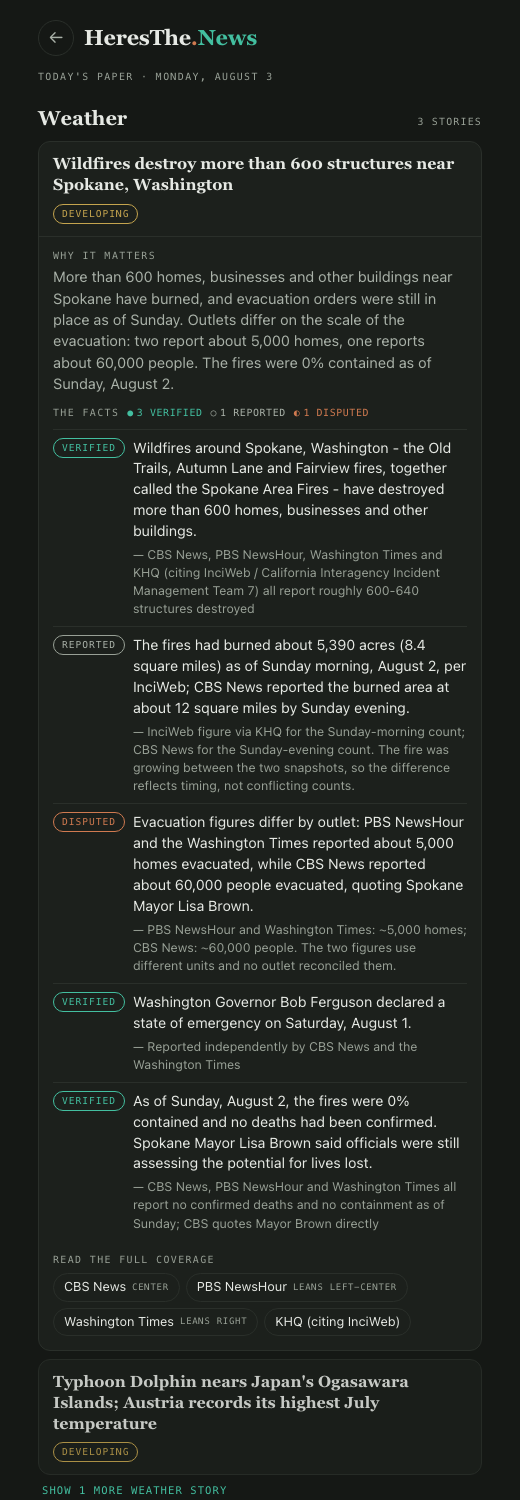
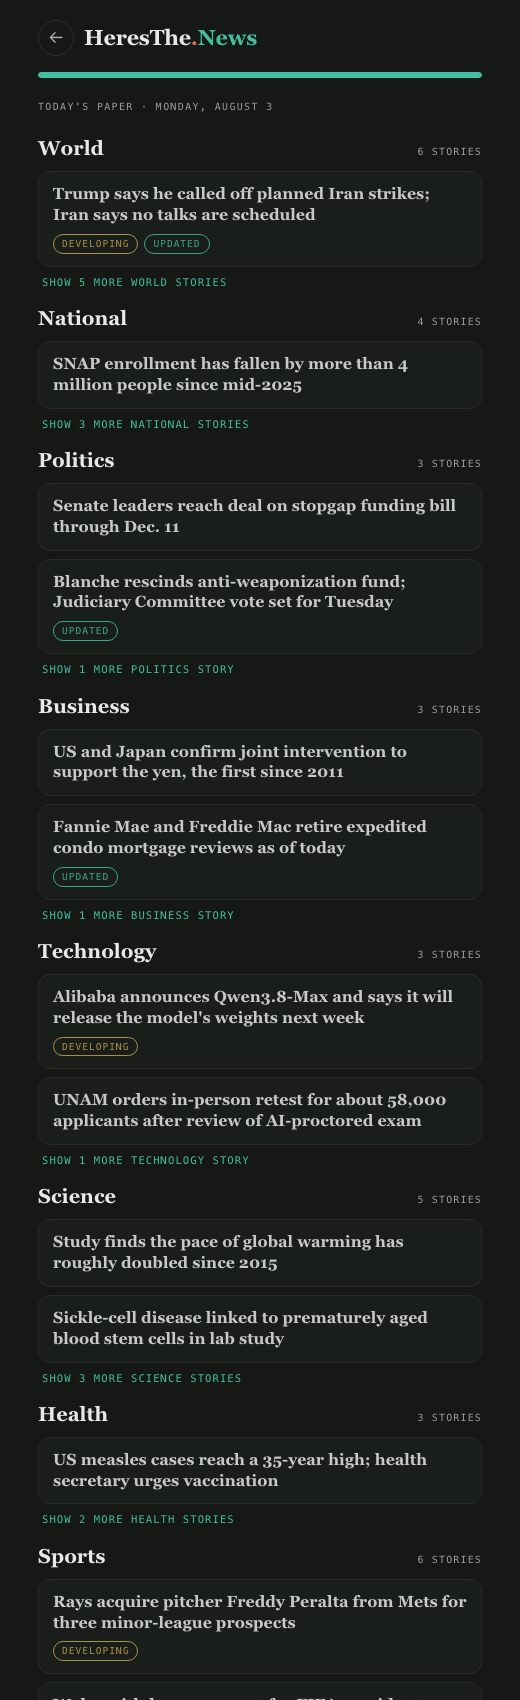
Flow is Start → Your topics → Today's paper; topics prioritise instead of filter
'Read Today's News' now leads to the categories. Chosen categories go to the
top of the paper under 'Your topics', everything else follows under
'Everything else'; nothing is dropped. Paper carries every category of the
Aug 3 edition. README updated for the new order.

Changed region(s): [[0.0615, 0.0, 0.9231, 1.0], [0.8615, 0.92, 0.8923, 0.9507]]

diff --git a/paper.html b/paper.html
@@ -4,7 +4,7 @@
 <meta charset="utf-8">
 <meta name="viewport" content="width=device-width,initial-scale=1">
 <title>HeresThe.News — Today's paper</title>
-<link rel="stylesheet" href="style.css?v=19">
+<link rel="stylesheet" href="style.css?v=28">
 </head>
 <body>
 <div class="app">
@@ -12,56 +12,129 @@
     <a class="back" href="index.html" aria-label="Back to start">&#8592;</a>
     <a class="brand" href="index.html">HeresThe<span class="dot">.</span><em>News</em></a>
   </header>
+  <div class="progress" aria-label="Step 2 of 2"><span style="width:100%"></span></div>
 
   <p class="eyebrow">Today's paper · Monday, August 3</p>
 
-  <section class="cat-band">
-    <h2 class="cat-head">Weather <span class="cat-count">3 stories</span></h2>
+  <div id="paper">
+    <p class="divider" data-divider="mine" hidden>Your topics</p>
+    <p class="divider" data-divider="rest" hidden>Everything else</p>
 
-    <details class="story" open>
-      <summary class="story-sum">
-        <span class="headline">Wildfires destroy more than 600 structures near Spokane, Washington</span>
-        <span class="sum-meta"><span class="chip status-developing">developing</span></span>
-      </summary>
-      <div class="story-body">
-        <p class="impact"><span class="impact-label">Why it matters</span>More than 600 homes, businesses and other buildings near Spokane have burned, and evacuation orders were still in place as of Sunday. Outlets differ on the scale of the evacuation: two report about 5,000 homes, one reports about 60,000 people. The fires were 0% contained as of Sunday, August 2.</p>
-        <p class="facts-head">The facts <span class="fcount fc-v"><i>●</i>3 verified</span><span class="fcount"><i>○</i>1 reported</span><span class="fcount fc-d"><i>◐</i>1 disputed</span></p>
-        <ul class="facts">
-          <li class="fact"><span class="chip status-verified">verified</span><span class="fact-text">Wildfires around Spokane, Washington - the Old Trails, Autumn Lane and Fairview fires, together called the Spokane Area Fires - have destroyed more than 600 homes, businesses and other buildings.<span class="corr">— CBS News, PBS NewsHour, Washington Times and KHQ (citing InciWeb / California Interagency Incident Management Team 7) all report roughly 600-640 structures destroyed</span></span></li>
-          <li class="fact"><span class="chip status-reported">reported</span><span class="fact-text">The fires had burned about 5,390 acres (8.4 square miles) as of Sunday morning, August 2, per InciWeb; CBS News reported the burned area at about 12 square miles by Sunday evening.<span class="corr">— InciWeb figure via KHQ for the Sunday-morning count; CBS News for the Sunday-evening count. The fire was growing between the two snapshots, so the difference reflects timing, not conflicting counts.</span></span></li>
-          <li class="fact"><span class="chip status-disputed">disputed</span><span class="fact-text">Evacuation figures differ by outlet: PBS NewsHour and the Washington Times reported about 5,000 homes evacuated, while CBS News reported about 60,000 people evacuated, quoting Spokane Mayor Lisa Brown.<span class="corr">— PBS NewsHour and Washington Times: ~5,000 homes; CBS News: ~60,000 people. The two figures use different units and no outlet reconciled them.</span></span></li>
-          <li class="fact"><span class="chip status-verified">verified</span><span class="fact-text">Washington Governor Bob Ferguson declared a state of emergency on Saturday, August 1.<span class="corr">— Reported independently by CBS News and the Washington Times</span></span></li>
-          <li class="fact"><span class="chip status-verified">verified</span><span class="fact-text">As of Sunday, August 2, the fires were 0% contained and no deaths had been confirmed. Spokane Mayor Lisa Brown said officials were still assessing the potential for lives lost.<span class="corr">— CBS News, PBS NewsHour and Washington Times all report no confirmed deaths and no containment as of Sunday; CBS quotes Mayor Brown directly</span></span></li>
-        </ul>
-        <p class="srcs-head">Read the full coverage</p>
-        <p class="source-links"><span class="src"><a href="https://www.cbsnews.com/news/spokane-washington-wildfire-evacuations-old-trails-fire/" target="_blank" rel="noopener">CBS News</a><span class="lean-tag">center</span></span><span class="src"><a href="https://www.pbs.org/newshour/nation/eastern-washington-fires-have-burned-600-structures-and-forced-the-evacuation-of-5000-homes" target="_blank" rel="noopener">PBS NewsHour</a><span class="lean-tag">leans left-center</span></span><span class="src"><a href="https://www.washingtontimes.com/news/2026/aug/2/eastern-washington-fires-burned-600-structures-forced-evacuation-5000/" target="_blank" rel="noopener">Washington Times</a><span class="lean-tag">leans right</span></span><span class="src"><a href="https://www.khq.com/fires/evacuations-expanded-for-spokane-area-fires-burning-5-390-acres-600-structures-destroyed/article_8f1a90ab-1bb3-4fb7-8b6a-8464137bd373.html" target="_blank" rel="noopener">KHQ (citing InciWeb)</a></span></p>
-      </div>
-    </details>
+    <section class="cat-band" data-category="weather">
+      <h2 class="cat-head">Weather <span class="cat-count">3 stories</span></h2>
+      <details class="story" open>
+        <summary class="story-sum">
+          <span class="headline">Wildfires destroy more than 600 structures near Spokane, Washington</span>
+          <span class="sum-meta"><span class="chip status-developing">developing</span></span>
+        </summary>
+        <div class="story-body">
+          <p class="impact"><span class="impact-label">Why it matters</span>More than 600 homes, businesses and other buildings near Spokane have burned, and evacuation orders were still in place as of Sunday. Outlets differ on the scale of the evacuation: two report about 5,000 homes, one reports about 60,000 people. The fires were 0% contained as of Sunday, August 2.</p>
+          <p class="facts-head">The facts <span class="fcount fc-v"><i>●</i>3 verified</span><span class="fcount"><i>○</i>1 reported</span><span class="fcount fc-d"><i>◐</i>1 disputed</span></p>
+          <ul class="facts">
+            <li class="fact"><span class="chip status-verified">verified</span><span class="fact-text">Wildfires around Spokane, Washington - the Old Trails, Autumn Lane and Fairview fires, together called the Spokane Area Fires - have destroyed more than 600 homes, businesses and other buildings.<span class="corr">— CBS News, PBS NewsHour, Washington Times and KHQ (citing InciWeb / California Interagency Incident Management Team 7) all report roughly 600-640 structures destroyed</span></span></li>
+            <li class="fact"><span class="chip status-reported">reported</span><span class="fact-text">The fires had burned about 5,390 acres (8.4 square miles) as of Sunday morning, August 2, per InciWeb; CBS News reported the burned area at about 12 square miles by Sunday evening.<span class="corr">— InciWeb figure via KHQ for the Sunday-morning count; CBS News for the Sunday-evening count. The fire was growing between the two snapshots, so the difference reflects timing, not conflicting counts.</span></span></li>
+            <li class="fact"><span class="chip status-disputed">disputed</span><span class="fact-text">Evacuation figures differ by outlet: PBS NewsHour and the Washington Times reported about 5,000 homes evacuated, while CBS News reported about 60,000 people evacuated, quoting Spokane Mayor Lisa Brown.<span class="corr">— PBS NewsHour and Washington Times: ~5,000 homes; CBS News: ~60,000 people. The two figures use different units and no outlet reconciled them.</span></span></li>
+            <li class="fact"><span class="chip status-verified">verified</span><span class="fact-text">Washington Governor Bob Ferguson declared a state of emergency on Saturday, August 1.<span class="corr">— Reported independently by CBS News and the Washington Times</span></span></li>
+            <li class="fact"><span class="chip status-verified">verified</span><span class="fact-text">As of Sunday, August 2, the fires were 0% contained and no deaths had been confirmed. Spokane Mayor Lisa Brown said officials were still assessing the potential for lives lost.<span class="corr">— CBS News, PBS NewsHour and Washington Times all report no confirmed deaths and no containment as of Sunday; CBS quotes Mayor Brown directly</span></span></li>
+          </ul>
+          <p class="srcs-head">Read the full coverage</p>
+          <p class="source-links"><span class="src"><a href="https://www.cbsnews.com/news/spokane-washington-wildfire-evacuations-old-trails-fire/" target="_blank" rel="noopener">CBS News</a><span class="lean-tag">center</span></span><span class="src"><a href="https://www.pbs.org/newshour/nation/eastern-washington-fires-have-burned-600-structures-and-forced-the-evacuation-of-5000-homes" target="_blank" rel="noopener">PBS NewsHour</a><span class="lean-tag">leans left-center</span></span><span class="src"><a href="https://www.washingtontimes.com/news/2026/aug/2/eastern-washington-fires-burned-600-structures-forced-evacuation-5000/" target="_blank" rel="noopener">Washington Times</a><span class="lean-tag">leans right</span></span><span class="src"><a href="https://www.khq.com/fires/evacuations-expanded-for-spokane-area-fires-burning-5-390-acres-600-structures-destroyed/article_8f1a90ab-1bb3-4fb7-8b6a-8464137bd373.html" target="_blank" rel="noopener">KHQ (citing InciWeb)</a></span></p>
+        </div>
+      </details>
+      <div class="story-row"><span class="headline">Typhoon Dolphin nears Japan's Ogasawara Islands; Austria records its highest July temperature</span><span class="sum-meta"><span class="chip status-developing">developing</span></span></div>
+      <p class="more">Show 1 more Weather story</p>
+    </section>
 
-    <div class="story-row"><span class="headline">Typhoon Dolphin nears Japan's Ogasawara Islands; Austria records its highest July temperature</span><span class="sum-meta"><span class="chip status-developing">developing</span></span></div>
-    <p class="more">Show 1 more Weather story</p>
-  </section>
+    <section class="cat-band" data-category="world">
+      <h2 class="cat-head">World <span class="cat-count">6 stories</span></h2>
+      <div class="story-row"><span class="headline">Trump says he called off planned Iran strikes; Iran says no talks are scheduled</span><span class="sum-meta"><span class="chip status-developing">developing</span><span class="chip chip-upd">updated</span></span></div>
+      <p class="more">Show 5 more World stories</p>
+    </section>
 
-  <section class="cat-band">
-    <h2 class="cat-head">Sports <span class="cat-count">6 stories</span></h2>
-    <div class="story-row"><span class="headline">Rays acquire pitcher Freddy Peralta from Mets for three minor-league prospects</span><span class="sum-meta"><span class="chip status-developing">developing</span></span></div>
-    <div class="story-row"><span class="headline">Cubs acquire pitcher Kevin Gausman from Blue Jays at the trade deadline</span><span class="sum-meta"><span class="chip status-developing">developing</span></span></div>
-    <p class="more">Show 4 more Sports stories</p>
-  </section>
+    <section class="cat-band" data-category="national">
+      <h2 class="cat-head">National <span class="cat-count">4 stories</span></h2>
+      <div class="story-row"><span class="headline">SNAP enrollment has fallen by more than 4 million people since mid-2025</span></div>
+      <p class="more">Show 3 more National stories</p>
+    </section>
 
-  <section class="cat-band">
-    <h2 class="cat-head">Pop Culture <span class="cat-count">4 stories</span></h2>
-    <div class="story-row"><span class="headline">Olivia Rodrigo joins Smashing Pumpkins for surprise Lollapalooza set</span></div>
-    <div class="story-row"><span class="headline">Massive Attack respond to Singapore ban after Palestinian flag display</span><span class="sum-meta"><span class="chip chip-upd">updated</span></span></div>
-    <p class="more">Show 2 more Pop Culture stories</p>
-  </section>
+    <section class="cat-band" data-category="politics">
+      <h2 class="cat-head">Politics <span class="cat-count">3 stories</span></h2>
+      <div class="story-row"><span class="headline">Senate leaders reach deal on stopgap funding bill through Dec. 11</span></div>
+      <div class="story-row"><span class="headline">Blanche rescinds anti-weaponization fund; Judiciary Committee vote set for Tuesday</span><span class="sum-meta"><span class="chip chip-upd">updated</span></span></div>
+      <p class="more">Show 1 more Politics story</p>
+    </section>
+
+    <section class="cat-band" data-category="business">
+      <h2 class="cat-head">Business <span class="cat-count">3 stories</span></h2>
+      <div class="story-row"><span class="headline">US and Japan confirm joint intervention to support the yen, the first since 2011</span></div>
+      <div class="story-row"><span class="headline">Fannie Mae and Freddie Mac retire expedited condo mortgage reviews as of today</span><span class="sum-meta"><span class="chip chip-upd">updated</span></span></div>
+      <p class="more">Show 1 more Business story</p>
+    </section>
+
+    <section class="cat-band" data-category="technology">
+      <h2 class="cat-head">Technology <span class="cat-count">3 stories</span></h2>
+      <div class="story-row"><span class="headline">Alibaba announces Qwen3.8-Max and says it will release the model's weights next week</span><span class="sum-meta"><span class="chip status-developing">developing</span></span></div>
+      <div class="story-row"><span class="headline">UNAM orders in-person retest for about 58,000 applicants after review of AI-proctored exam</span></div>
+      <p class="more">Show 1 more Technology story</p>
+    </section>
+
+    <section class="cat-band" data-category="health">
+      <h2 class="cat-head">Health <span class="cat-count">3 stories</span></h2>
+      <div class="story-row"><span class="headline">US measles cases reach a 35-year high; health secretary urges vaccination</span></div>
+      <p class="more">Show 2 more Health stories</p>
+    </section>
+
+    <section class="cat-band" data-category="science">
+      <h2 class="cat-head">Science <span class="cat-count">5 stories</span></h2>
+      <div class="story-row"><span class="headline">Study finds the pace of global warming has roughly doubled since 2015</span></div>
+      <div class="story-row"><span class="headline">Sickle-cell disease linked to prematurely aged blood stem cells in lab study</span></div>
+      <p class="more">Show 3 more Science stories</p>
+    </section>
+
+    <section class="cat-band" data-category="sports">
+      <h2 class="cat-head">Sports <span class="cat-count">6 stories</span></h2>
+      <div class="story-row"><span class="headline">Rays acquire pitcher Freddy Peralta from Mets for three minor-league prospects</span><span class="sum-meta"><span class="chip status-developing">developing</span></span></div>
+      <div class="story-row"><span class="headline">Wales withdraws support for FIFA president Infantino as UEFA warns of legal action over dropped World Cup stake plan</span><span class="sum-meta"><span class="chip chip-upd">updated</span></span></div>
+      <p class="more">Show 4 more Sports stories</p>
+    </section>
+
+    <section class="cat-band" data-category="boxoffice">
+      <h2 class="cat-head">Box Office <span class="cat-count">4 stories</span></h2>
+      <div class="story-row"><span class="headline">Spider-Man: Brand New Day opens with $355 million domestic, second-highest debut on record</span><span class="sum-meta"><span class="chip chip-upd">updated</span></span></div>
+      <p class="more">Show 3 more Box Office stories</p>
+    </section>
+
+    <section class="cat-band" data-category="pop">
+      <h2 class="cat-head">Pop Culture <span class="cat-count">4 stories</span></h2>
+      <div class="story-row"><span class="headline">Massive Attack respond to Singapore ban after Palestinian flag display</span><span class="sum-meta"><span class="chip chip-upd">updated</span></span></div>
+      <div class="story-row"><span class="headline">Olivia Rodrigo joins Smashing Pumpkins for surprise Lollapalooza set</span></div>
+      <p class="more">Show 2 more Pop Culture stories</p>
+    </section>
+  </div>
 
   <section class="done-card">
     <h2>That's everything for today.</h2>
     <p>No more to scroll. Nothing else is waiting.</p>
-    <a class="btn btn-link" href="topics.html">Pick my topics</a>
+    <a class="btn btn-link" href="topics.html">Change my topics</a>
     <a class="btn btn-link" href="index.html">Back to start</a>
   </section>
 </div>
+
+<script>
+// Chosen topics go to the top, in the order they were listed; everything else follows.
+(function(){
+  const ORDER = ["world","national","politics","business","technology","science","health","sports","weather","boxoffice","pop"];
+  const picked = JSON.parse(localStorage.getItem("htn.topics") || "[]").filter(id => ORDER.includes(id));
+  const paper = document.getElementById("paper");
+  const byId = Object.fromEntries([...paper.querySelectorAll(".cat-band")].map(s => [s.dataset.category, s]));
+  const mine = document.querySelector('[data-divider="mine"]'), rest = document.querySelector('[data-divider="rest"]');
+  const first = picked.length ? picked : [];
+  const then = ORDER.filter(id => !first.includes(id));
+  // rebuild in order
+  [...paper.children].forEach(c => c.remove());
+  if (first.length) { mine.hidden = false; paper.append(mine); first.forEach(id => paper.append(byId[id])); rest.hidden = false; paper.append(rest); }
+  then.forEach(id => paper.append(byId[id]));
+})();
+</script>
 </body>
 </html>

diff --git a/topics.html b/topics.html
@@ -4,7 +4,7 @@
 <meta charset="utf-8">
 <meta name="viewport" content="width=device-width,initial-scale=1">
 <title>HeresThe.News — Your topics</title>
-<link rel="stylesheet" href="style.css?v=19">
+<link rel="stylesheet" href="style.css?v=28">
 </head>
 <body>
 <svg width="0" height="0" style="position:absolute" aria-hidden="true">
@@ -35,7 +35,7 @@
     <div class="sticky">
       <p class="live" id="live"></p>
       <button class="btn btn-primary" id="continueBtn" type="submit" disabled>Next</button>
-      <button class="btn btn-link" id="allBtn" type="button">Show me everything</button>
+      <button class="btn btn-link" id="allBtn" type="button">No preference — show me everything</button>
     </div>
   </form>
 </div>
@@ -59,15 +59,15 @@ function refresh(){
   btn.disabled = picked.length === 0;
   btn.textContent = picked.length === 0 ? "Pick at least one" : "Show my paper";
   const total = picked.reduce((a,t) => a + t[2], 0);
-  live.innerHTML = picked.length === 0 ? "Your paper: <b>nothing yet</b>"
-    : `Your paper: <b>${picked.map(t => t[1]).join(" · ")}</b> — ${total} stories`;
+  live.innerHTML = picked.length === 0 ? "Pick what you care about. It goes to the top; you still get everything."
+    : `<b>${picked.map(t => t[1]).join(" · ")}</b> first, then everything else`;
 }
 list.addEventListener("change", refresh);
 refresh();
 
 document.getElementById("allBtn").addEventListener("click", () => {
-  list.querySelectorAll("input").forEach(i => i.checked = true); refresh();
-  document.getElementById("topicsForm").requestSubmit();
+  localStorage.setItem("htn.topics", "[]");
+  location.href = "paper.html";
 });
 document.getElementById("topicsForm").addEventListener("submit", e => {
   e.preventDefault();

diff --git a/index.html b/index.html
@@ -4,7 +4,7 @@
 <meta charset="utf-8">
 <meta name="viewport" content="width=device-width,initial-scale=1">
 <title>HeresThe.News</title>
-<link rel="stylesheet" href="style.css?v=19">
+<link rel="stylesheet" href="style.css?v=28">
 </head>
 <body>
 <div class="app landing">
@@ -46,7 +46,7 @@
     <p class="brand-big">HeresThe<span class="dot">.</span><em>News</em></p>
     <h1 class="motto"><span class="m1">No ads.</span> <span class="m2">No bait.</span><br><span class="m3">Just news.</span></h1>
     <div class="actions">
-      <a class="btn btn-primary" href="paper.html">Read Today's News</a>
+      <a class="btn btn-primary" href="topics.html">Read Today's News</a>
     </div>
     <button class="replay" id="replay" type="button">Replay intro</button>
   </main>

diff --git a/style.css b/style.css
@@ -159,3 +159,5 @@ p{margin:0 0 14px;color:var(--ink-2)}
 .done-card{margin:22px 0 8px;padding:22px 18px;border:1px dashed var(--green);border-radius:14px;text-align:center;background:var(--green-tint)}
 .done-card h2{color:var(--green);margin-bottom:4px}
 .done-card p{margin-bottom:8px}
+.divider{font-family:var(--mono);font-size:.62rem;letter-spacing:.16em;text-transform:uppercase;color:var(--green);margin:18px 0 -6px;padding-bottom:6px;border-bottom:1px solid var(--line)}
+.divider[data-divider="rest"]{color:var(--ink-3)}

diff --git a/README.md b/README.md
@@ -22,10 +22,10 @@
 | # | Screen | Its one job | Why it earned a slot | Design question it helps answer |
 |---|---|---|---|---|
 | 1 | **Start** | Signal the value and the one action. A short intro plays once: a phone lock screen, a HeresThe.News notification, a zoom into the app, one headline whose facts arrive labeled *verified / reported / disputed* with their sources. It resolves into the wordmark, **"No ads. No bait. Just news."** revealed one line at a time, and a single button, **Read Today's News**. | The live site's landing is the feed itself, so a first-timer never sees what makes it different. This screen shows the mechanism in ten seconds instead of describing it. | Does a first-time visitor understand what the site does and what to tap before reading anything? |
-| 2 | **Today's paper** | Show the product working. The site's real story component, with a real story from the Aug 3 edition open: *Why it matters*, five facts with status chips, and every source named with its lean tag. Ends with **"That's everything for today."** | It is the capability itself, not a picture of it. Every element on it exists on heresthe.news today. | When a reader opens a story, do the labels and named sources read as "this has been checked" without explanation? |
-| 3 | **Your topics** | Let the reader shape the paper. The live site's own words, *"What news do you want to see?"*, a list with line icons, **Next** disabled until at least one pick, *Show me everything* as the escape, and a live strip, *"Your paper: World · Tech — 9 stories"*, that updates as topics are toggled. | The live site has this feature but buries it after the first section; first-timers never find it. Showing it as a step makes the reader's control over the paper discoverable. | Do readers recognise the list as *their* control over the paper, and does the disabled Next read as a constraint rather than a bug? |
+| 2 | **Your topics** | Let the reader shape the paper. The live site's own words, *"What news do you want to see?"*, a list with line icons, **Show my paper** disabled until at least one pick, *No preference, show me everything* as the escape, and a live line, *"World · Tech first, then everything else"*, that updates as topics are toggled. Chosen topics are **prioritised, not filtered**: they go to the top and the rest of the paper still follows. | The live site has this feature but buries it after the first section; first-timers never find it. Showing it as the first step makes the reader's control over the paper discoverable, and prioritising rather than filtering keeps the promise that you still get *all* the news. | Do readers recognise the list as *their* control over the paper, and does the disabled button read as a constraint rather than a bug? |
+| 3 | **Today's paper** | Show the product working. Every category of the Aug 3 edition, with the reader's chosen topics first under *Your topics* and the rest under *Everything else*. The site's real story component is open on one story: *Why it matters*, five facts with status chips, and every source named with its lean tag. Ends with **"That's everything for today."** | It is the capability itself, not a picture of it. Every element on it exists on heresthe.news today, and it shows the effect of the choice made on screen 2. | When a reader opens a story, do the labels and named sources read as "this has been checked" without explanation? And do they notice their topics came first? |
 
-Every screen returns to Start from the masthead (logo, and a back arrow on screens 2 and 3). Three screens is the cap; there is no fourth.
+The flow is Start → Your topics → Today's paper. Every screen returns to Start from the masthead (logo, and a back arrow on screens 2 and 3). Three screens is the cap; there is no fourth.
 
 ## 3. Design question plan
 
@@ -37,7 +37,7 @@ Every screen returns to Start from the masthead (logo, and a back arrow on scree
 | Value | "If this worked the way you wanted, what one or two words describe what you'd get out of it?" | "Trust" or "quick." Not "certainty," which is my word, not theirs. | The status chips and the named sources on Today's paper. If they say "quick" and not "trust," the labels are not landing. |
 | Persona | "How often does this come up for you, and what are you usually doing when it does?" | Every morning, on the phone, in bed or before class, with about five minutes. | The intro's lock-screen notification at 7:00 is aimed at exactly that moment. |
 | Capability | "I'm going to show you this screen for five seconds. (Hide it.) What does this product do?" — the Start screen after the intro | "News without ads." Fewer will say "checked across sources," because that idea lives in the intro, not in the resting landing. | The motto carries the *no ads* claim; the multi-source claim is only in the animation, so it is at risk of being missed. |
-| Capability | "Click around on Today's paper and tell me what the labels mean." | *Verified* and *disputed* will be read correctly. Some will read *reported* as a synonym for verified rather than "one source so far." | The `reported` chip is grey and unexplained on screen 2; the live site explains it in a footnote the mock-up does not carry. |
+| Capability | "Click around on Today's paper and tell me what the labels mean." | *Verified* and *disputed* will be read correctly. Some will read *reported* as a synonym for verified rather than "one source so far." | The `reported` chip is grey and unexplained on screen 3; the live site explains it in a footnote the mock-up does not carry. |
 
 ## 4. Design justification and first read
 
@@ -48,22 +48,23 @@ I opened the live URL on my phone as if I had never seen it.
 **Does every element on the landing earn its place?** Now, yes. The first AI output did not: it had a three-line headline, a lede sentence, a row of three reassurance chips, a footer line about the publish time, and two buttons of near-equal weight. That is *signifier interference* in the deck's terms. Nothing was dominant, so nothing signaled. The resting landing now has four things: wordmark, motto, one button, and a demoted *Replay intro* link.
 
 **What belongs together on each screen, and which Gestalt principle communicates it?**
-- *Proximity*: on Today's paper, the facts sit directly under "The facts" and each source line sits directly under its fact, so fact and evidence read as one unit.
+- *Proximity*: on Today's paper, the facts sit directly under "The facts" and each source line sits directly under its fact, so fact and evidence read as one unit. The reader's chosen categories sit together under one *Your topics* divider.
 - *Similarity*: every status chip has the same shape and type; only colour changes, so colour alone encodes status. On Topics, every selected row shares the same green tint and tick, so "chosen" reads as one state.
 - *Common region*: each story is one card; the lock-screen notification is one card; the topic list is one bordered region.
 - *Continuity*: the progress bar on Topics is a single line, so "step 1 of 2" reads without a label.
 
-**Do screens 2 and 3 stay on mission, and can you return to the landing from everywhere?** Screen 2 is the product, not a decoration around it. Screen 3 is a choice screen, which the assignment warns about; it stays on mission because the choice has a visible effect on the same screen (the "Your paper" strip) and because it is a real feature of the live site rather than an invented settings page. Both screens have a back arrow and a logo link to Start.
+**Do screens 2 and 3 stay on mission, and can you return to the landing from everywhere?** Screen 2 is a choice screen, which the assignment warns about; it stays on mission because it is a real feature of the live site rather than an invented settings page, because the live line shows the effect as you tap, and because the choice is honoured on the very next screen. Screen 3 is the product itself, with the reader's choice visible at the top of it. Both screens have a back arrow and a logo link to Start.
 
 **What did the AI initially get wrong, skip, or oversimplify, and what did I change?**
 1. **Too much copy competing on the landing.** Cut to one motto and one button. *Reason:* interference; the affordance sentence was not dominant.
 2. **An abstract "demo" graphic of grey bars.** It signified nothing; a reader could not tell the bars were stories. Replaced twice, finally with a phone that shows the actual product. *Reason:* clarity, matching the reader's mental model.
 3. **An invented "how much time do you have?" picker.** It looked good and did not reflect how the site works; the site has no time sizing. Removed. *Reason:* a signifier for a capability that does not exist is a false affordance.
-4. **A reading-style picker on screen 3.** A settings page, the failure the assignment names. Removed; screen 3 became the site's real topics flow with a live effect.
-5. **Emoji icons on the topic list.** They read as cheap and inconsistent. Replaced with line icons in one stroke weight. *Reason:* the three screens have to look like one product.
-6. **The wordmark's clay dot was missing.** Restored. Small, but it is the brand.
+4. **A reading-style picker as the third screen.** A settings page, the failure the assignment names. Removed. The topics step became screen 2 and the paper became screen 3, so the last thing a visitor sees is the product honouring their choice.
+5. **Topics filtered the paper.** The first version dropped every category you did not pick. Changed to prioritise instead: chosen categories first, everything else after. *Reason:* the site's promise is that you get all the news; filtering broke the reader's mental model of "a paper."
+6. **Emoji icons on the topic list.** They read as cheap and inconsistent. Replaced with line icons in one stroke weight. *Reason:* the three screens have to look like one product.
+7. **The wordmark's clay dot was missing.** Restored. Small, but it is the brand.
 
-**Which design question motivated each important change?** The landing rewrite came from *"does a first-timer know what to tap before reading?"*: the answer was no while five elements competed. The removal of the time and style pickers came from *"do screens 2 and 3 show the product working?"*: a picker is not the product. The topics live strip came from *"does the disabled Next read as a constraint, and does the reader see the effect of their choice?"*.
+**Which design question motivated each important change?** The landing rewrite came from *"does a first-timer know what to tap before reading?"*: the answer was no while five elements competed. The removal of the time and style pickers came from *"do screens 2 and 3 show the product working?"*: a picker is not the product. The topics live line and the prioritise-not-filter change came from *"does the reader see the effect of their choice, and do they still trust they got everything?"*.
 
 ### Before and after
 
@@ -74,7 +75,7 @@ I opened the live URL on my phone as if I had never seen it.
 | ![before topics](docs/before/topics.png) | ![intro](docs/after/intro-lockscreen.png) |
 | Topics: emoji icons, story counts on every row, helper paragraph, step label. | The intro's first beat: a real phone, a HeresThe.News notification at 7:00. |
 
-Screen 2 did not exist in the first output; the first output had a time-sizing screen instead ([before](docs/before/brief.png)). Screen 2 final: [docs/after/paper.png](docs/after/paper.png). Screen 3 final: [docs/after/topics.png](docs/after/topics.png).
+The paper screen did not exist in the first output; the first output had a time-sizing screen instead ([before](docs/before/brief.png)). Screen 2 final: [docs/after/topics.png](docs/after/topics.png). Screen 3 final: [docs/after/paper.png](docs/after/paper.png).
 
 ---
 
